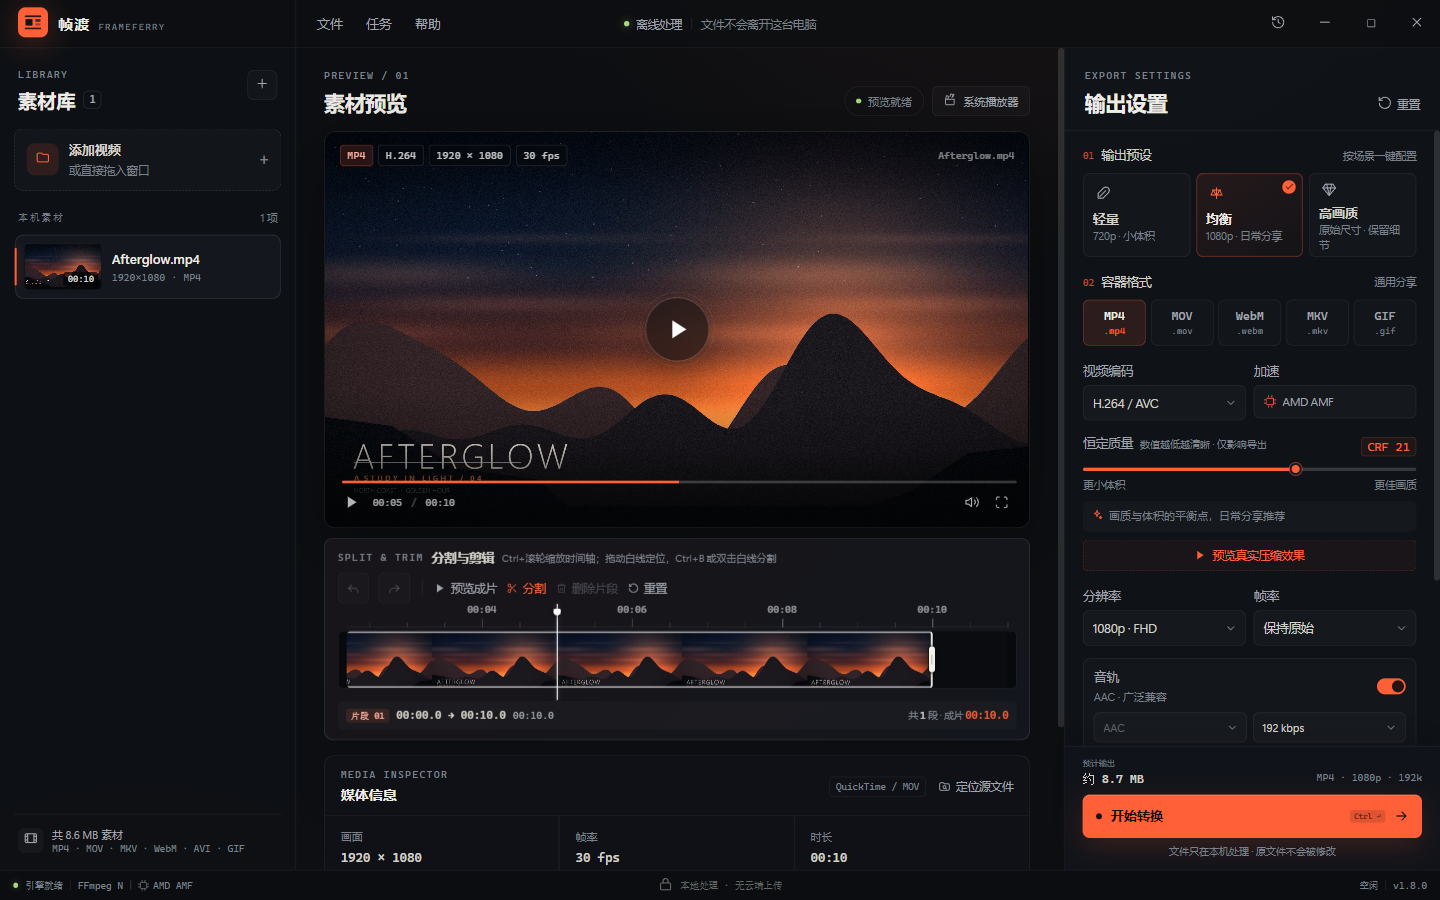
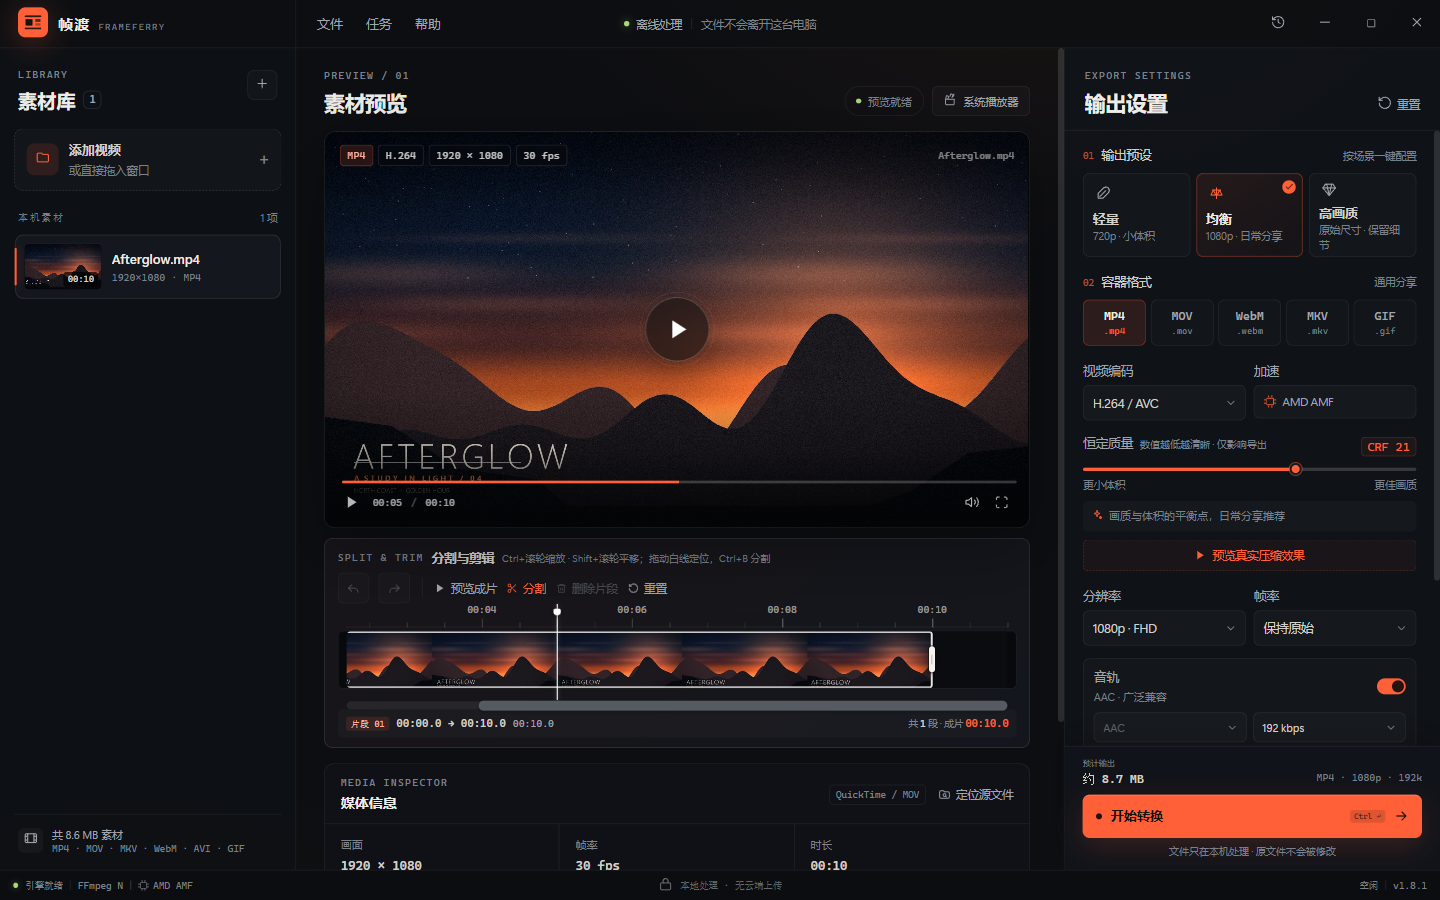
feat: 时间轴增加横向滚动条
缩放后显示可拖动横向滚动条，支持拖动滑块或点击轨道平移；时间轴内容、标尺、标签和播放头实时同步。版本提升到 v1.8.1。

diff --git a/renderer/app.js b/renderer/app.js
@@ -949,6 +949,13 @@ function renderTrimUI() {
   const rulerHtml = timelineRulerHtml(view, clips[0]?.start || 0)
   const filmLeft = view.duration ? -(view.start / view.duration) * 100 : 0
   const filmWidth = view.duration ? (duration / view.duration) * 100 : 100
+  const scrollRatio = view.baseDuration ? view.duration / view.baseDuration : 1
+  const scrollLeft = view.baseDuration ? (view.start / view.baseDuration) * 100 : 0
+  const scrollbarHtml = view.zoom > 1.01
+    ? `<div class="timeline-scroll" id="timeline-scrollbar" title="拖动查看时间轴其他位置">
+        <div class="timeline-scroll-thumb" id="timeline-scroll-thumb" style="left:${scrollLeft}%;width:${Math.max(2, scrollRatio * 100)}%"></div>
+      </div>`
+    : ''
 
   slot.innerHTML = `<div class="trim-panel clip-editor">
     <div class="trim-head">
@@ -984,6 +991,7 @@ function renderTrimUI() {
         <span class="clip-trim-tip" id="clip-trim-tip" hidden></span>
       </div>
     </div>
+    ${scrollbarHtml}
     <div class="clip-readout">
       <div class="clip-selected-line">
         <span class="clip-badge">片段 ${String(selectedIndex + 1).padStart(2, '0')}</span>
@@ -1929,6 +1937,37 @@ function bindEvents() {
         return
       }
       lastTimelineClick = { at: now, x: event.clientX, y: event.clientY }
+    }
+
+    const scrollbar = event.target.closest('#timeline-scrollbar')
+    if (scrollbar && event.button === 0) {
+      const file = activeFile()
+      if (!file?.info) return
+      const view = clipView(file)
+      const thumb = $('#timeline-scroll-thumb')
+      if (!thumb || view.baseDuration <= view.duration) return
+      const trackRect = scrollbar.getBoundingClientRect()
+      const thumbRect = thumb.getBoundingClientRect()
+      const maxStart = view.baseDuration - view.duration
+      const travel = Math.max(1, trackRect.width - thumbRect.width)
+      const onThumb = Boolean(event.target.closest('#timeline-scroll-thumb'))
+      const grab = onThumb ? event.clientX - thumbRect.left : thumbRect.width / 2
+      event.preventDefault()
+      const apply = (clientX) => {
+        const left = Math.min(travel, Math.max(0, clientX - trackRect.left - grab))
+        const start = (left / travel) * maxStart
+        file.timelineView = { zoom: view.zoom, start }
+        renderTrimUI()
+      }
+      if (!onThumb) apply(event.clientX)
+      const move = (pointerEvent) => apply(pointerEvent.clientX)
+      const up = () => {
+        window.removeEventListener('pointermove', move)
+        window.removeEventListener('pointerup', up)
+      }
+      window.addEventListener('pointermove', move)
+      window.addEventListener('pointerup', up)
+      return
     }
 
     const grip = event.target.closest('.playhead-grip')

diff --git a/renderer/styles.css b/renderer/styles.css
@@ -4687,3 +4687,35 @@ input:focus-visible {
   overflow: hidden;
   border-radius: 4px;
 }
+
+/* Horizontal timeline scrollbar (visible when zoomed). */
+
+.timeline-scroll {
+  position: relative;
+  height: 8px;
+  margin: 0 9px;
+  border-radius: 4px;
+  background: rgba(255, 255, 255, 0.07);
+  cursor: pointer;
+  user-select: none;
+}
+
+.timeline-scroll-thumb {
+  position: absolute;
+  top: -1px;
+  height: 10px;
+  min-width: 14px;
+  border-radius: 5px;
+  background: #565a61;
+  box-shadow: 0 1px 4px rgba(0, 0, 0, 0.3);
+  cursor: grab;
+}
+
+.timeline-scroll-thumb:hover {
+  background: #6d7178;
+}
+
+.timeline-scroll-thumb:active {
+  background: #858a92;
+  cursor: grabbing;
+}

diff --git a/README.md b/README.md
@@ -73,7 +73,7 @@ E:\FrameFerry\FrameFerry.exe
 
 ### 2. 分割与剪辑
 
-每个素材维护一组按时间排序的片段：初始为一条完整片段。时间轴上的白色竖线是播放头，同时也是分割位置：可以拖动白线，或点击时间轴定位，再按 `Ctrl+B`、双击白线或点「分割」。切点会留下一条白色分割线，相邻片段在视觉上连续。时间标尺的 00:00 对齐第一个保留片段左端，后续标签相对它前移；时间轴保留源素材的左右空间，并在片段末尾额外留出约 10% 的空白，方便把两端手柄向外拖回去恢复裁剪。删除区域是纯深色，不再铺斜纹。分割线只停留在保留片段内。时间轴支持 `Ctrl+滚轮` 以鼠标位置为中心缩放（1x–20x），缩略图宽度和时间刻度同步变化；`Shift+滚轮` 左右平移。选中任意片段后，两端会出现白色圆角手柄；拖动时显示当前片段时长气泡，可以继续裁剪，或点「删除片段」移除。拖动两端时只移动片段边界，白色播放头/分割线保持原位，不会跟着鼠标跑。选中状态只用白色描边和手柄标识，不再给画面加黄色半透明遮罩，缩略图保持原亮度；被删除的区域用深色斜纹填充。
+每个素材维护一组按时间排序的片段：初始为一条完整片段。时间轴上的白色竖线是播放头，同时也是分割位置：可以拖动白线，或点击时间轴定位，再按 `Ctrl+B`、双击白线或点「分割」。切点会留下一条白色分割线，相邻片段在视觉上连续。时间标尺的 00:00 对齐第一个保留片段左端，后续标签相对它前移；时间轴保留源素材的左右空间，并在片段末尾额外留出约 10% 的空白，方便把两端手柄向外拖回去恢复裁剪。删除区域是纯深色，不再铺斜纹。分割线只停留在保留片段内。时间轴支持 `Ctrl+滚轮` 以鼠标位置为中心缩放（1x–20x），缩略图宽度和时间刻度同步变化；`Shift+滚轮` 或时间轴下方的横向滚动条可以左右平移查看不同位置。选中任意片段后，两端会出现白色圆角手柄；拖动时显示当前片段时长气泡，可以继续裁剪，或点「删除片段」移除。拖动两端时只移动片段边界，白色播放头/分割线保持原位，不会跟着鼠标跑。选中状态只用白色描边和手柄标识，不再给画面加黄色半透明遮罩，缩略图保持原亮度；被删除的区域用深色斜纹填充。
 
 渲染层把片段数组交给主进程。单片段的导出走简洁的 `-ss / -t` 路径；多片段则用 FFmpeg `filter_complex`：
 

diff --git a/docs/TEST_REPORT.md b/docs/TEST_REPORT.md
@@ -146,6 +146,8 @@
 | 删除区纯深色 | 删除/空白区域不再绘制斜纹，右侧手柄不贴时间轴边缘 |
 | Ctrl+滚轮缩放 | 1.25x 后可视 8.8s，标尺重排为 00:02/04/06/08；缩略图同步拉长 |
 | Shift+滚轮平移 | 向右平移后视图起点 2.2s，标尺变为 00:04–00:10 |
+| 横向滚动条 | 缩放后出现滑块，宽度按可视比例计算；点击轨道右侧后起点 2.2s，标尺变为 00:04–00:10 |
+| 滚动条拖动 | 滑块可连续拖动，时间轴内容与刻度实时重绘 |
 | 分割与删除 MP4 | 在 3s、7s 分割后删除中间段，输出 6.000s，音画均保留 |
 | 分割片段再裁剪 | 把首段出点从 3.0s 拖到 2.5s，输出 5.500s |
 | 分割后 GIF | 保留 0–3s / 7–10s，输出 75 帧 / 6s / 全部 80ms |
